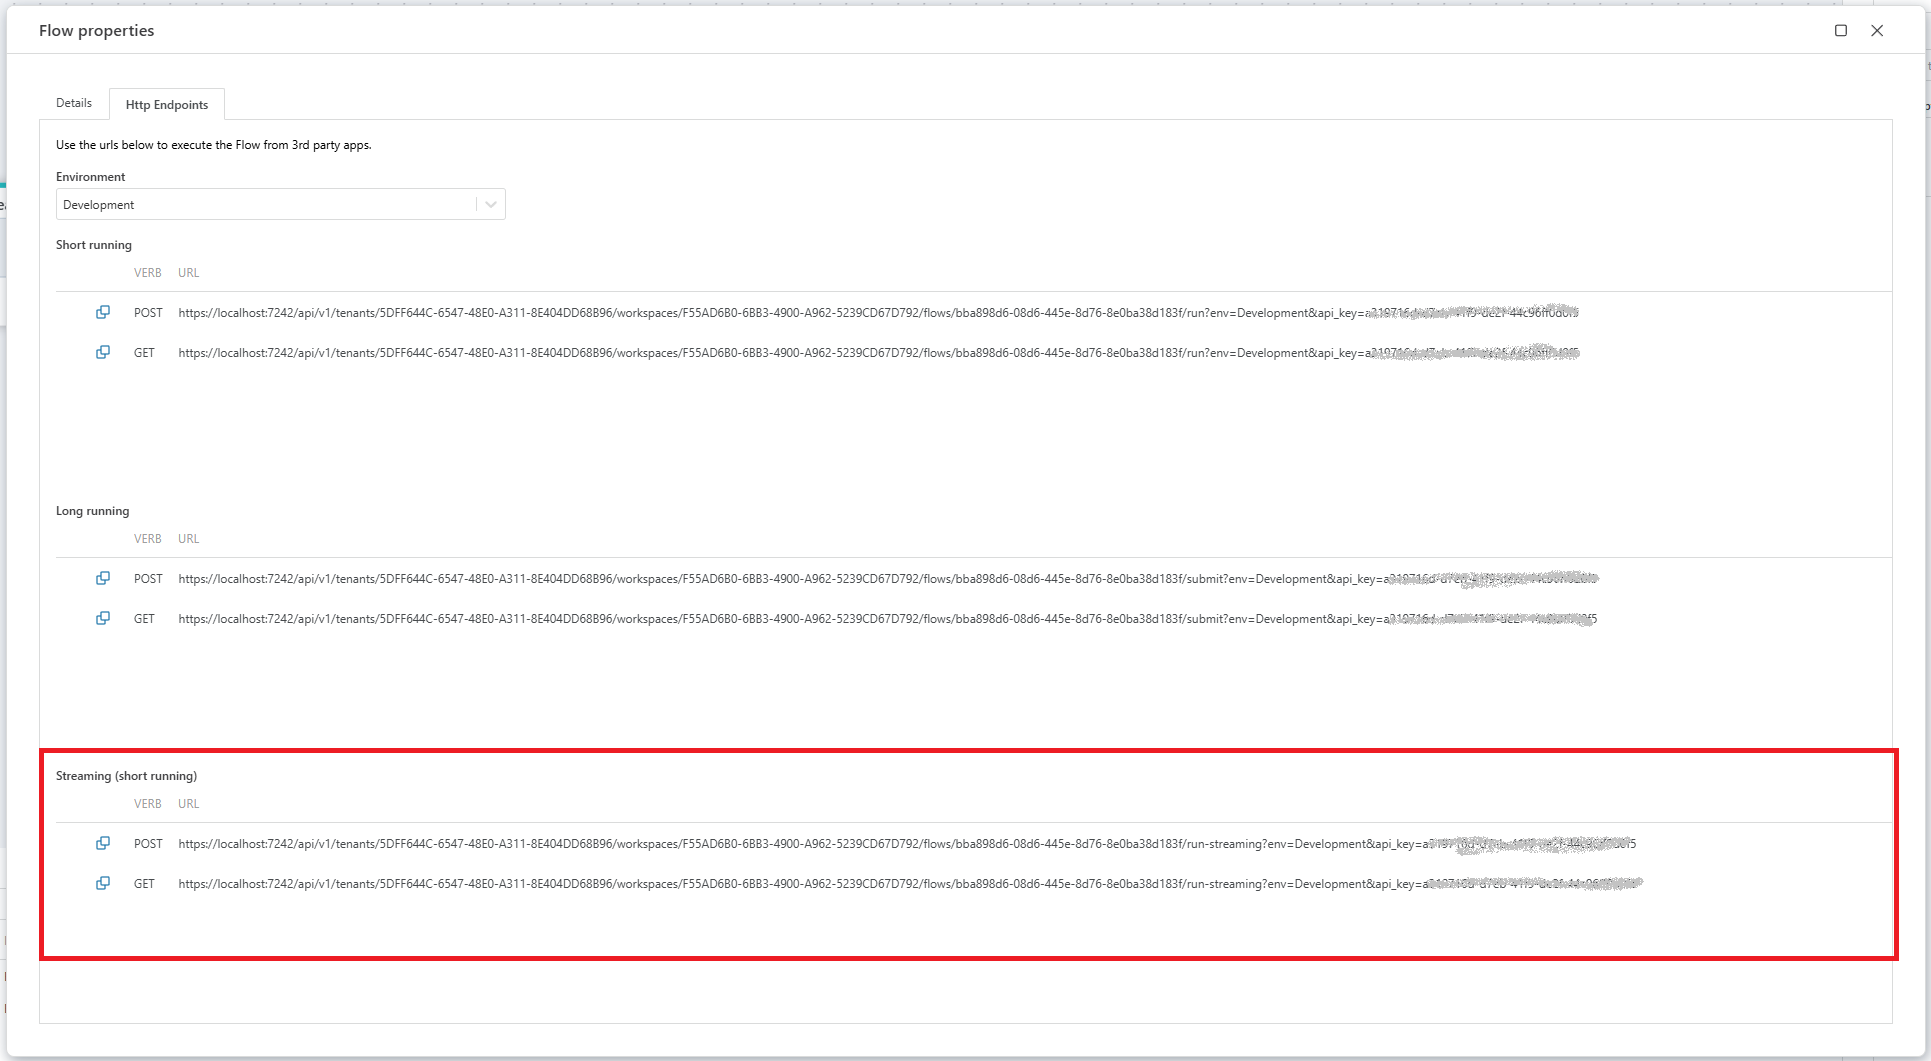
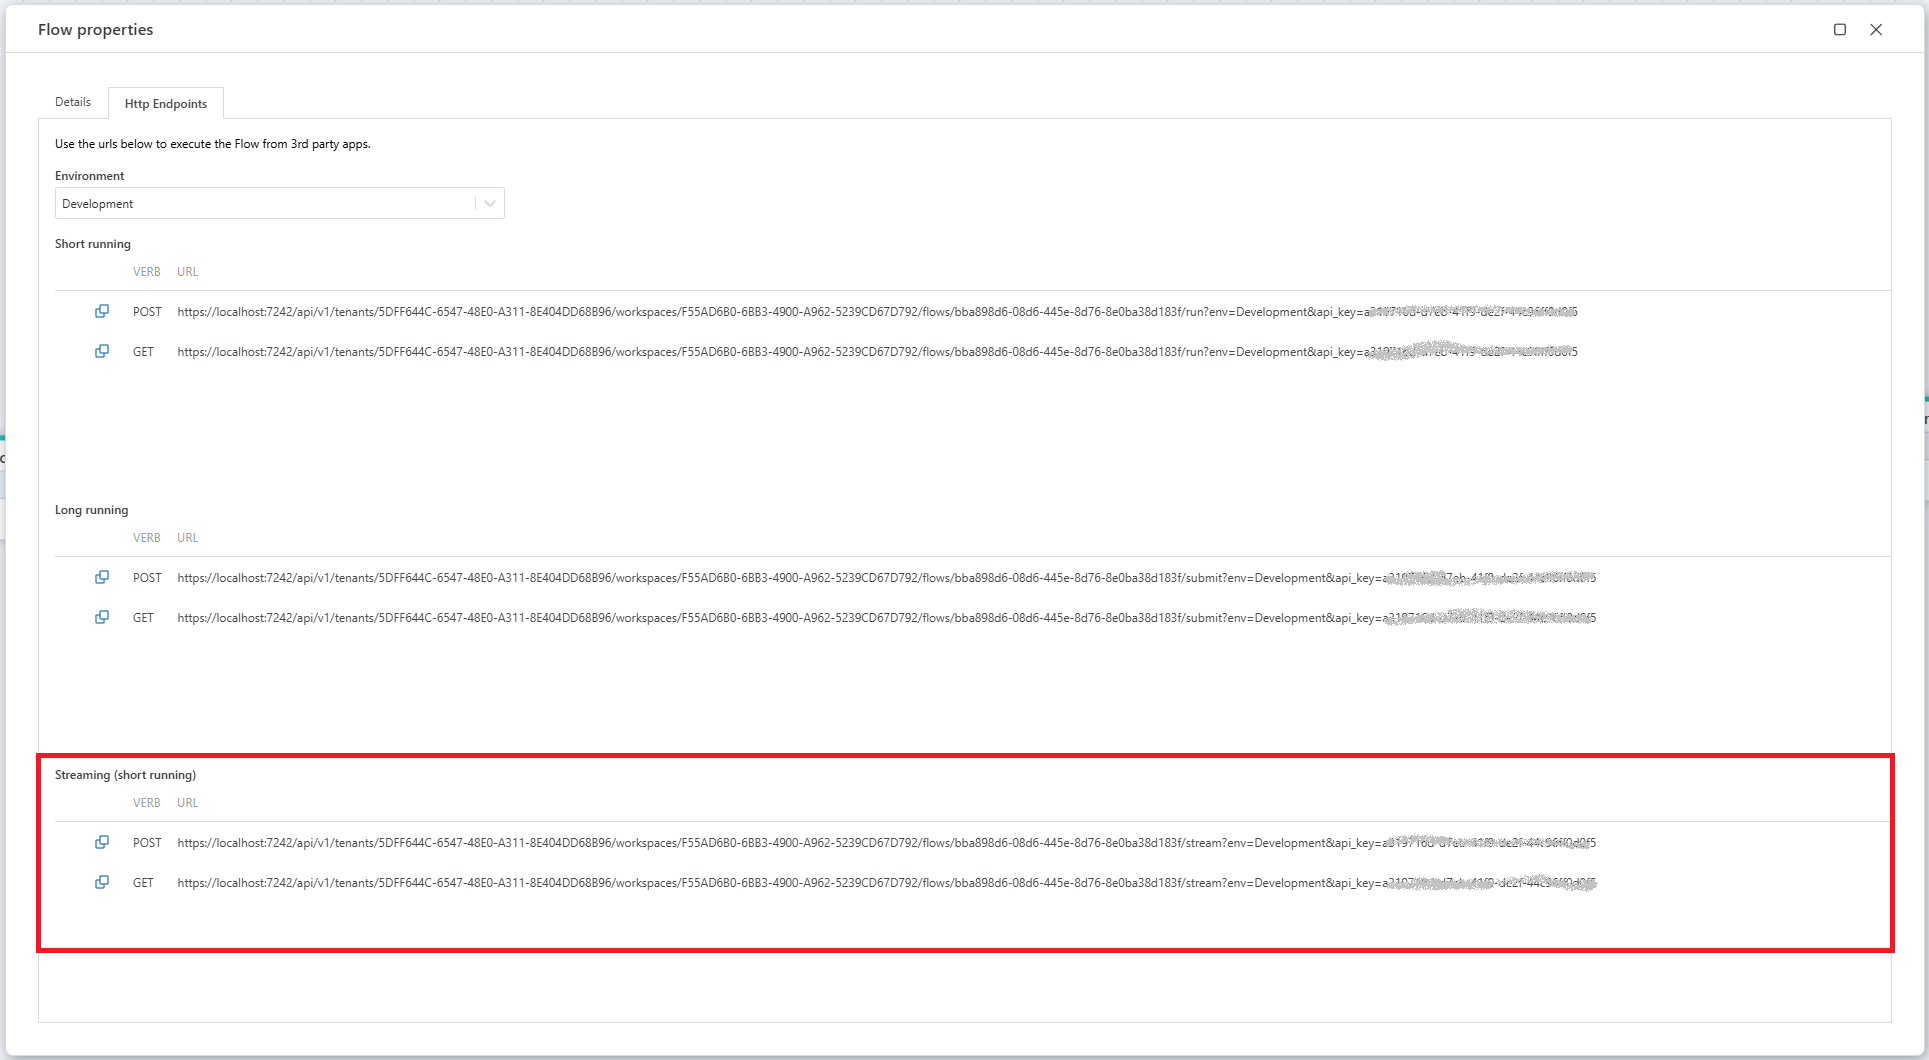
update streaming docs

diff --git a/articles/flow/flows/running-flows/from-third-party-app.md b/articles/flow/flows/running-flows/from-third-party-app.md
@@ -38,7 +38,7 @@ To execute a **long-running** Flow, use the [Long-running HTTP API](../../api-re
 <br/>
 
 ## Execute streaming Flows
-To execute a **streaming** Flow, use the [Streaming HTTP API](../../api-reference//execute-flow/run-streaming.md) endpoint. The API will return a stream of data until the Flow has completed executing.
+To execute a **streaming** Flow, use the [Streaming HTTP API](../../api-reference//execute-flow/stream.md) endpoint. The API will return a stream of data until the Flow has completed executing.
 
 <br/>
 

diff --git a/articles/flow/api-reference/execute-flow/stream.md b/articles/flow/api-reference/execute-flow/stream.md
@@ -4,7 +4,7 @@ Runs a Flow that asynchronously streams data back to the client.
 The maximum allowed execution time is `300 seconds (5 minutes)`. 
 
 ```http
-[POST] api/v1/tenants/{tenantId}/workspaces/{workspaceId}/flows/{flowId}/run-streaming?env={env}&api_key={apikey}
+[POST] api/v1/tenants/{tenantId}/workspaces/{workspaceId}/flows/{flowId}/stream?env={env}&api_key={apikey}
 ```
 
 View the [execution endpoints](../../flows/execution-endpoints.md) of the Flow to find the exact address to use.
